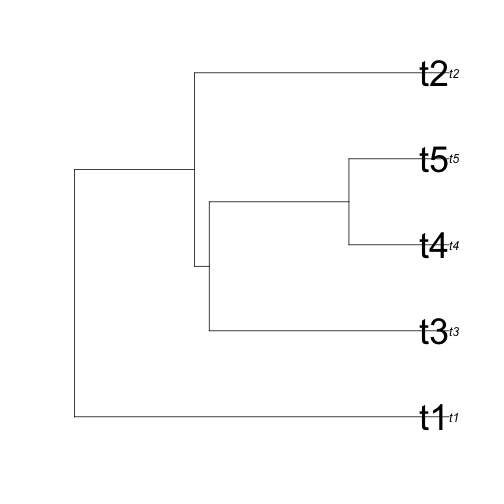
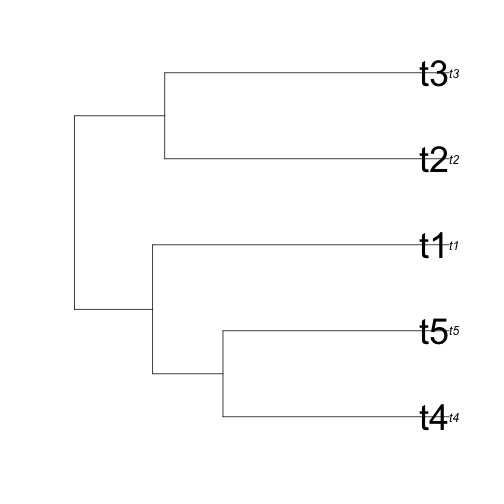
another pcm update

diff --git a/GMcourse/Lectures/09-PhyCompMethods.html b/GMcourse/Lectures/09-PhyCompMethods.html
@@ -385,52 +385,52 @@ class: center, middle, inverse, title-slide
  &lt;thead&gt;
   &lt;tr&gt;
    &lt;th style="text-align:left;"&gt;   &lt;/th&gt;
-   &lt;th style="text-align:right;"&gt; t1 &lt;/th&gt;
-   &lt;th style="text-align:right;"&gt; t3 &lt;/th&gt;
    &lt;th style="text-align:right;"&gt; t4 &lt;/th&gt;
    &lt;th style="text-align:right;"&gt; t5 &lt;/th&gt;
+   &lt;th style="text-align:right;"&gt; t1 &lt;/th&gt;
    &lt;th style="text-align:right;"&gt; t2 &lt;/th&gt;
+   &lt;th style="text-align:right;"&gt; t3 &lt;/th&gt;
   &lt;/tr&gt;
  &lt;/thead&gt;
 &lt;tbody&gt;
   &lt;tr&gt;
-   &lt;td style="text-align:left;"&gt; t1 &lt;/td&gt;
-   &lt;td style="text-align:right;"&gt; 1 &lt;/td&gt;
-   &lt;td style="text-align:right;"&gt; 0.00 &lt;/td&gt;
-   &lt;td style="text-align:right;"&gt; 0.00 &lt;/td&gt;
-   &lt;td style="text-align:right;"&gt; 0.00 &lt;/td&gt;
-   &lt;td style="text-align:right;"&gt; 0.00 &lt;/td&gt;
-  &lt;/tr&gt;
-  &lt;tr&gt;
-   &lt;td style="text-align:left;"&gt; t3 &lt;/td&gt;
-   &lt;td style="text-align:right;"&gt; 0 &lt;/td&gt;
-   &lt;td style="text-align:right;"&gt; 1.00 &lt;/td&gt;
-   &lt;td style="text-align:right;"&gt; 0.36 &lt;/td&gt;
-   &lt;td style="text-align:right;"&gt; 0.36 &lt;/td&gt;
-   &lt;td style="text-align:right;"&gt; 0.32 &lt;/td&gt;
-  &lt;/tr&gt;
-  &lt;tr&gt;
    &lt;td style="text-align:left;"&gt; t4 &lt;/td&gt;
-   &lt;td style="text-align:right;"&gt; 0 &lt;/td&gt;
-   &lt;td style="text-align:right;"&gt; 0.36 &lt;/td&gt;
    &lt;td style="text-align:right;"&gt; 1.00 &lt;/td&gt;
-   &lt;td style="text-align:right;"&gt; 0.73 &lt;/td&gt;
-   &lt;td style="text-align:right;"&gt; 0.32 &lt;/td&gt;
+   &lt;td style="text-align:right;"&gt; 0.40 &lt;/td&gt;
+   &lt;td style="text-align:right;"&gt; 0.21 &lt;/td&gt;
+   &lt;td style="text-align:right;"&gt; 0.00 &lt;/td&gt;
+   &lt;td style="text-align:right;"&gt; 0.00 &lt;/td&gt;
   &lt;/tr&gt;
   &lt;tr&gt;
    &lt;td style="text-align:left;"&gt; t5 &lt;/td&gt;
-   &lt;td style="text-align:right;"&gt; 0 &lt;/td&gt;
-   &lt;td style="text-align:right;"&gt; 0.36 &lt;/td&gt;
-   &lt;td style="text-align:right;"&gt; 0.73 &lt;/td&gt;
+   &lt;td style="text-align:right;"&gt; 0.40 &lt;/td&gt;
    &lt;td style="text-align:right;"&gt; 1.00 &lt;/td&gt;
-   &lt;td style="text-align:right;"&gt; 0.32 &lt;/td&gt;
+   &lt;td style="text-align:right;"&gt; 0.21 &lt;/td&gt;
+   &lt;td style="text-align:right;"&gt; 0.00 &lt;/td&gt;
+   &lt;td style="text-align:right;"&gt; 0.00 &lt;/td&gt;
+  &lt;/tr&gt;
+  &lt;tr&gt;
+   &lt;td style="text-align:left;"&gt; t1 &lt;/td&gt;
+   &lt;td style="text-align:right;"&gt; 0.21 &lt;/td&gt;
+   &lt;td style="text-align:right;"&gt; 0.21 &lt;/td&gt;
+   &lt;td style="text-align:right;"&gt; 1.00 &lt;/td&gt;
+   &lt;td style="text-align:right;"&gt; 0.00 &lt;/td&gt;
+   &lt;td style="text-align:right;"&gt; 0.00 &lt;/td&gt;
   &lt;/tr&gt;
   &lt;tr&gt;
    &lt;td style="text-align:left;"&gt; t2 &lt;/td&gt;
-   &lt;td style="text-align:right;"&gt; 0 &lt;/td&gt;
-   &lt;td style="text-align:right;"&gt; 0.32 &lt;/td&gt;
-   &lt;td style="text-align:right;"&gt; 0.32 &lt;/td&gt;
-   &lt;td style="text-align:right;"&gt; 0.32 &lt;/td&gt;
+   &lt;td style="text-align:right;"&gt; 0.00 &lt;/td&gt;
+   &lt;td style="text-align:right;"&gt; 0.00 &lt;/td&gt;
+   &lt;td style="text-align:right;"&gt; 0.00 &lt;/td&gt;
+   &lt;td style="text-align:right;"&gt; 1.00 &lt;/td&gt;
+   &lt;td style="text-align:right;"&gt; 0.24 &lt;/td&gt;
+  &lt;/tr&gt;
+  &lt;tr&gt;
+   &lt;td style="text-align:left;"&gt; t3 &lt;/td&gt;
+   &lt;td style="text-align:right;"&gt; 0.00 &lt;/td&gt;
+   &lt;td style="text-align:right;"&gt; 0.00 &lt;/td&gt;
+   &lt;td style="text-align:right;"&gt; 0.00 &lt;/td&gt;
+   &lt;td style="text-align:right;"&gt; 0.24 &lt;/td&gt;
    &lt;td style="text-align:right;"&gt; 1.00 &lt;/td&gt;
   &lt;/tr&gt;
 &lt;/tbody&gt;
@@ -938,7 +938,7 @@ But what if we do:
 
 `$$\mathbf{T^T_\Omega}\mathbf{Z} =\mathbf{UDV}^T$$`
 
-where: `\(\mathbf{A}=\mathbf{T_\Omega}\)` and `\(\mathbf\Omega=\mathbf{TT^T}\)`. Data is aligned to directions independent of phylogenetic signal (the least phylogenetic signal in the first component).
+where: `\(\mathbf{A}=\mathbf{T_\Omega}\)` and `\(\mathbf\Omega^{-1}=\mathbf{TT^T}\)`. Data is aligned to directions independent of phylogenetic signal (the least phylogenetic signal in the first component).
 
 ]]
 
